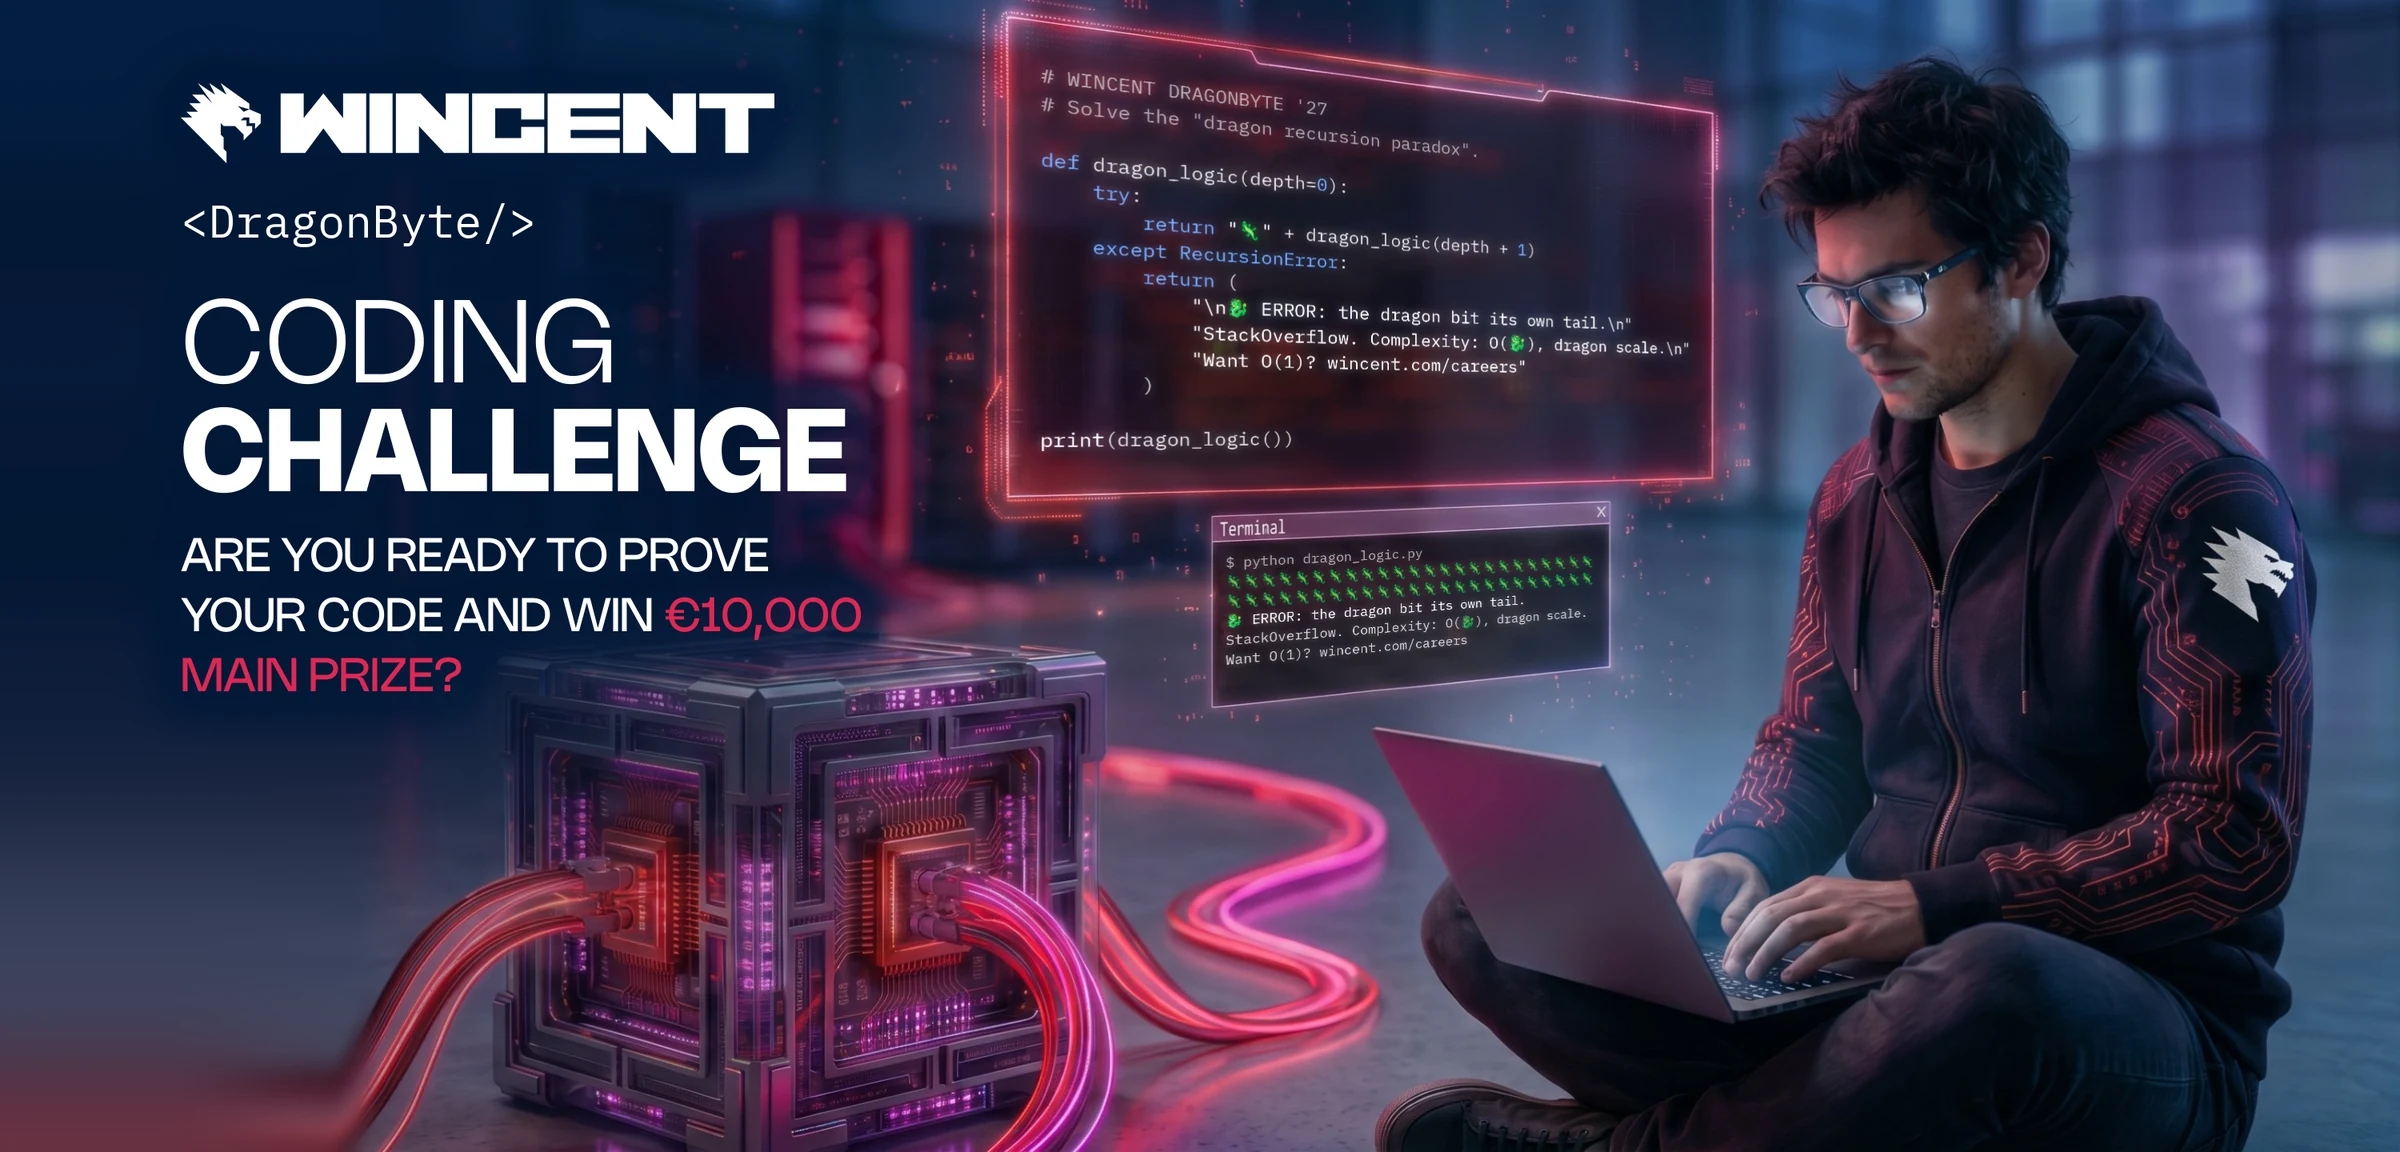
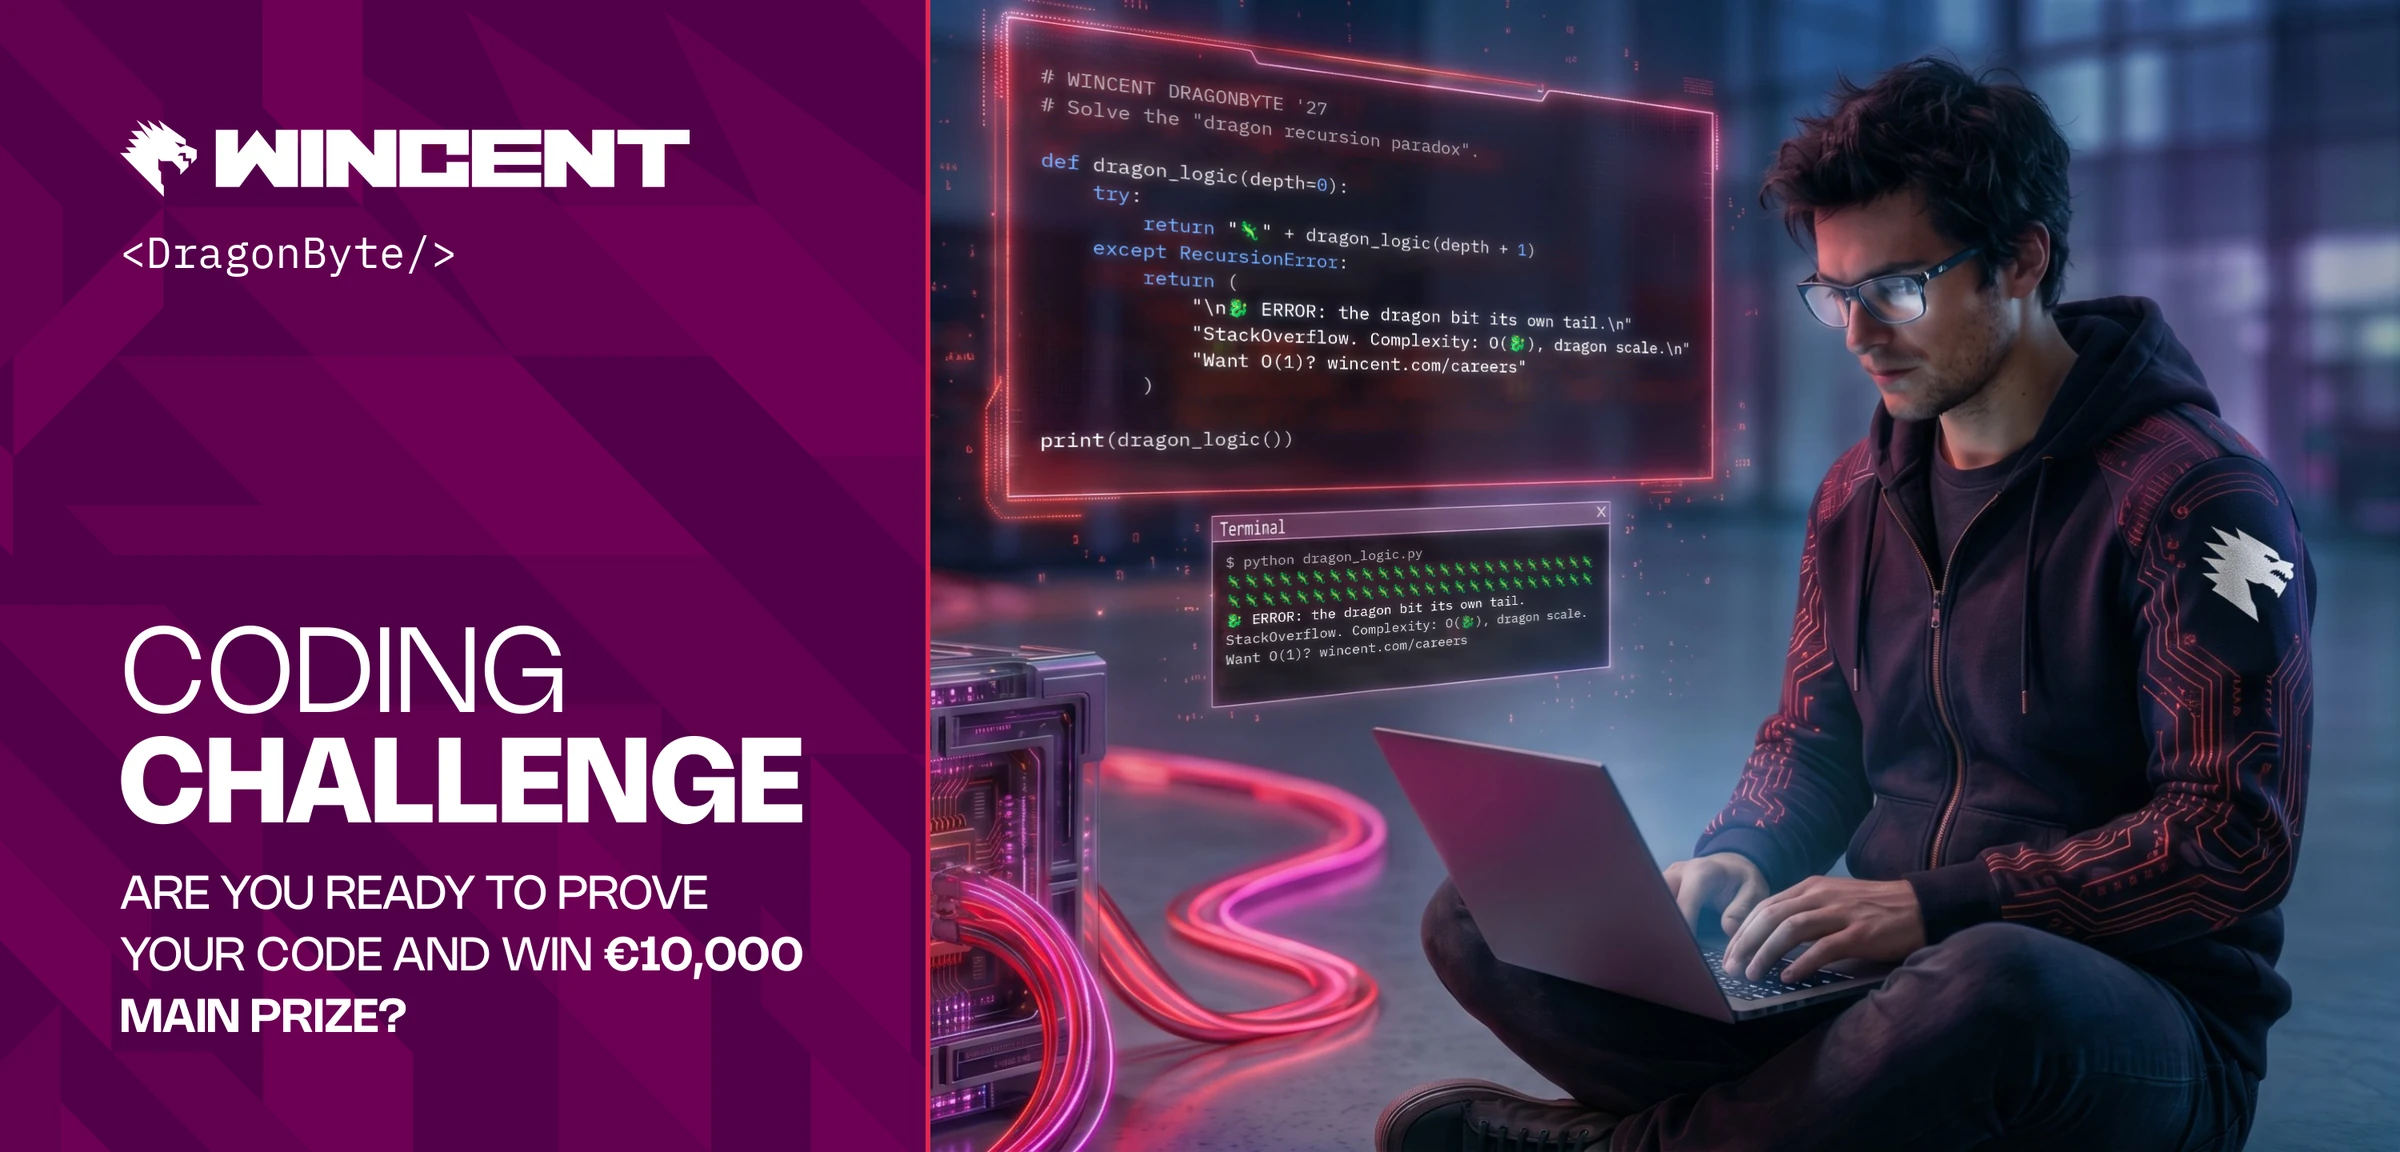
wincentdragonbyte: úloha 1 – bannery s panelom Talent (oficiálny vzor), bez stmavenia scény (EN + SK)
Claude-Session: https://claude.ai/code/session_01H8JWfyXzGm1E99R4ciV8hV

diff --git a/wincentdragonbyte/index.html b/wincentdragonbyte/index.html
@@ -400,11 +400,11 @@ footer{border-top:1px solid var(--line);padding:28px 0 44px;font-size:14px;line-
 </div>
 <h3 class="mono sub">Banner proposals · two options</h3>
 <div class="opts">
-<figure class="opt opt-lead"><a class="zoom" href="assets/banner-db-dragon.webp?v=3" aria-label="Open the image full size"><img width="2400" height="1152" loading="lazy" src="assets/banner-db-dragon.webp?v=3" alt="Banner option 1: on the left the Wincent logo in white, &lt;DragonByte/&gt; smaller below it, Coding Challenge and the line Are you ready to prove your code and win €10,000 main prize?; Byte, the dragon of dark carbon plates with red light in the seams and magenta wings, breathing a stream of code across a server room"></a><figcaption><span class="mono">Option 01</span><strong>Dragon</strong>Byte breathing a stream of code across the server room, in the navy, magenta and red of the Talent stream.</figcaption></figure>
-<figure class="opt opt-lead"><a class="zoom" href="assets/banner-db-contestant.webp?v=3" aria-label="Open the image full size"><img width="2400" height="1152" loading="lazy" src="assets/banner-db-contestant.webp?v=3" alt="Banner option 2: on the left the Wincent logo in white, &lt;DragonByte/&gt; smaller below it, Coding Challenge and the line Are you ready to prove your code and win €10,000 main prize?; a contestant at a laptop, a floating code window with the dragon_logic.py code and a terminal with its output, a glass cube with red cables"></a><figcaption><span class="mono">Option 02</span><strong>Contestant</strong>A contestant at a laptop with a code window and a terminal; both show the sandbox code exactly.</figcaption></figure>
+<figure class="opt opt-lead"><a class="zoom" href="assets/banner-db-dragon.webp?v=4" aria-label="Open the image full size"><img width="2400" height="1152" loading="lazy" src="assets/banner-db-dragon.webp?v=4" alt="Banner option 1: on the left a Dark Purple panel with the Talent pattern, on it the Wincent logo in white, &lt;DragonByte/&gt; smaller below it, Coding Challenge and the line Are you ready to prove your code and win €10,000 main prize?; Byte, the dragon of dark carbon plates with red light in the seams and magenta wings, breathing a stream of code across a server room"></a><figcaption><span class="mono">Option 01</span><strong>Dragon</strong>Byte breathing a stream of code across the server room, in the navy, magenta and red of the Talent stream.</figcaption></figure>
+<figure class="opt opt-lead"><a class="zoom" href="assets/banner-db-contestant.webp?v=4" aria-label="Open the image full size"><img width="2400" height="1152" loading="lazy" src="assets/banner-db-contestant.webp?v=4" alt="Banner option 2: on the left a Dark Purple panel with the Talent pattern, on it the Wincent logo in white, &lt;DragonByte/&gt; smaller below it, Coding Challenge and the line Are you ready to prove your code and win €10,000 main prize?; a contestant at a laptop, a floating code window with the dragon_logic.py code and a terminal with its output, a glass cube with red cables"></a><figcaption><span class="mono">Option 02</span><strong>Contestant</strong>A contestant at a laptop with a code window and a terminal; both show the sandbox code exactly.</figcaption></figure>
 <figure class="opt opt-lead"><video class="motion" src="assets/dragon-motion.mp4" poster="assets/dragon-motion.webp" width="1280" height="720" muted loop playsinline controls preload="none" aria-label="Ten-second video: in a server room the gold dragon breathes a stream of code while a code window runs the recursion; the terminal ends with the error The dragon bit its own tail and the line Want O(1)? wincent.com/careers"><a href="assets/dragon-motion.mp4">Download the video</a></video><figcaption><span class="mono">Motion · 10 s</span><strong>The dragon in motion</strong>Ten seconds with the gold dragon: the code window opens, the dragon breathes the program out as a stream of digits, its tail swings round and the terminal ends on the error and the careers line.</figcaption></figure>
 </div>
-<p class="note">Two banners for one campaign, carrying the full content of the current DragonByte header in the type system of the T-shirt: the Wincent logo in white, the manual’s negative version, &lt;DragonByte/&gt; below it in IBM Plex Mono as embroidered on the chest, set at 60 % of the logo’s width so the logo leads, half a logo height apart as the manual’s safe zone requires, then CODING in Nohemi Light and CHALLENGE in Nohemi Bold like the headline on the back, and the prize line in Nohemi Regular with €10,000 main prize in Vivid Red. Each is 3000 × 1440 px, the format of the current DragonByte header. The scenes are AI-generated images; the type, the logo and the code are set over them, and the code in the window and the terminal is the sandbox code, set in IBM Plex Mono in the sandbox’s colours. The motion study is an AI-generated video; it starts muted and the sound can be turned on in its controls.</p>
+<p class="note">Two banners for one campaign, carrying the full content of the current DragonByte header. The type stands on a panel in Dark Purple with the official Talent dynamic pattern from the brand kit, toned down so that it supports and does not dominate; the scene next to it is left untouched, with no shading over it, and a Vivid Red rule separates the two. On the panel: the Wincent logo in white, the manual’s negative version, &lt;DragonByte/&gt; below it in IBM Plex Mono as embroidered on the T-shirt, at 60 % of the logo’s width and half a logo height apart as the safe zone requires; CODING in Nohemi Light and CHALLENGE in Nohemi Bold like the headline on the T-shirt; the prize line in Nohemi Regular with €10,000 main prize in SemiBold. Headline and prize line fill the same column, and all margins are 150 px. Each banner is 3000 × 1440 px, the format of the current DragonByte header. The scenes are AI-generated images; the code in the window and the terminal is the sandbox code, set in IBM Plex Mono in the sandbox’s colours. The motion study is an AI-generated video; it starts muted and the sound can be turned on in its controls.</p>
 </div></section>
 
 <section id="task-2" class="dark"><div class="wrap sec">

diff --git a/wincentdragonbyte/sk/index.html b/wincentdragonbyte/sk/index.html
@@ -400,11 +400,11 @@ footer{border-top:1px solid var(--line);padding:28px 0 44px;font-size:14px;line-
 </div>
 <h3 class="mono sub">Návrhy bannera · dva varianty</h3>
 <div class="opts">
-<figure class="opt opt-lead"><a class="zoom" href="../assets/banner-db-dragon.webp?v=3" aria-label="Otvoriť obrázok na celú veľkosť"><img width="2400" height="1152" loading="lazy" src="../assets/banner-db-dragon.webp?v=3" alt="Variant bannera 1: vľavo biele logo Wincent, pod ním menšie &lt;DragonByte/&gt;, Coding Challenge a riadok Are you ready to prove your code and win €10,000 main prize?; Byte, drak z tmavých karbónových plátov s červeným svetlom v škárach a magentovými krídlami, chrlí prúd kódu cez serverovňu"></a><figcaption><span class="mono">Variant 01</span><strong>Drak</strong>Byte chrlí prúd kódu cez serverovňu, v navy, magente a červenej streamu Talent.</figcaption></figure>
-<figure class="opt opt-lead"><a class="zoom" href="../assets/banner-db-contestant.webp?v=3" aria-label="Otvoriť obrázok na celú veľkosť"><img width="2400" height="1152" loading="lazy" src="../assets/banner-db-contestant.webp?v=3" alt="Variant bannera 2: vľavo biele logo Wincent, pod ním menšie &lt;DragonByte/&gt;, Coding Challenge a riadok Are you ready to prove your code and win €10,000 main prize?; súťažiaci pri notebooku, vznášajúce sa okno s kódom dragon_logic.py a terminál s jeho výstupom, sklenená kocka s červenými káblami"></a><figcaption><span class="mono">Variant 02</span><strong>Súťažiaci</strong>Súťažiaci pri notebooku s oknom kódu a terminálom; oba ukazujú presne kód zo sandboxu.</figcaption></figure>
+<figure class="opt opt-lead"><a class="zoom" href="../assets/banner-db-dragon.webp?v=4" aria-label="Otvoriť obrázok na celú veľkosť"><img width="2400" height="1152" loading="lazy" src="../assets/banner-db-dragon.webp?v=4" alt="Variant bannera 1: vľavo panel v Dark Purple so vzorom Talent, na ňom biele logo Wincent, pod ním menšie &lt;DragonByte/&gt;, Coding Challenge a riadok Are you ready to prove your code and win €10,000 main prize?; Byte, drak z tmavých karbónových plátov s červeným svetlom v škárach a magentovými krídlami, chrlí prúd kódu cez serverovňu"></a><figcaption><span class="mono">Variant 01</span><strong>Drak</strong>Byte chrlí prúd kódu cez serverovňu, v navy, magente a červenej streamu Talent.</figcaption></figure>
+<figure class="opt opt-lead"><a class="zoom" href="../assets/banner-db-contestant.webp?v=4" aria-label="Otvoriť obrázok na celú veľkosť"><img width="2400" height="1152" loading="lazy" src="../assets/banner-db-contestant.webp?v=4" alt="Variant bannera 2: vľavo panel v Dark Purple so vzorom Talent, na ňom biele logo Wincent, pod ním menšie &lt;DragonByte/&gt;, Coding Challenge a riadok Are you ready to prove your code and win €10,000 main prize?; súťažiaci pri notebooku, vznášajúce sa okno s kódom dragon_logic.py a terminál s jeho výstupom, sklenená kocka s červenými káblami"></a><figcaption><span class="mono">Variant 02</span><strong>Súťažiaci</strong>Súťažiaci pri notebooku s oknom kódu a terminálom; oba ukazujú presne kód zo sandboxu.</figcaption></figure>
 <figure class="opt opt-lead"><video class="motion" src="../assets/dragon-motion.mp4" poster="../assets/dragon-motion.webp" width="1280" height="720" muted loop playsinline controls preload="none" aria-label="Desaťsekundové video: zlatý drak v serverovni chrlí prúd kódu, kým okno s kódom spúšťa rekurziu; terminál skončí chybou The dragon bit its own tail a riadkom Want O(1)? wincent.com/careers"><a href="../assets/dragon-motion.mp4">Stiahnuť video</a></video><figcaption><span class="mono">Pohyb · 10 s</span><strong>Drak v pohybe</strong>Desať sekúnd so zlatým drakom: otvorí sa okno s kódom, drak vydýchne program ako prúd číslic, chvost sa otočí a terminál skončí chybou a odkazom na kariéru.</figcaption></figure>
 </div>
-<p class="note">Dva bannery jednej kampane s celým obsahom súčasného headera DragonByte v typografickom systéme trička: logo Wincent v bielej, negatívnej verzii z manuálu, pod ním &lt;DragonByte/&gt; v IBM Plex Mono ako výšivka na hrudi, široké 60 % šírky loga, aby logo viedlo, vo vzdialenosti polovice výšky loga podľa ochrannej zóny z manuálu, potom CODING v Nohemi Light a CHALLENGE v Nohemi Bold ako nadpis na chrbte a riadok s výhrou v Nohemi Regular, v ktorom je €10,000 main prize vo Vivid Red. Každý má 3000 × 1440 px, formát súčasného headera DragonByte. Scény sú obrázky generované AI; písmo, logo a kód sú vysádzané cez ne a kód v okne aj v termináli je kód zo sandboxu, vysádzaný v IBM Plex Mono vo farbách sandboxu. Pohybová štúdia je video generované AI; spúšťa sa bez zvuku a zvuk sa dá zapnúť v jeho ovládaní.</p>
+<p class="note">Dva bannery jednej kampane s celým obsahom súčasného headera DragonByte. Text stojí na paneli v Dark Purple s oficiálnym dynamickým vzorom Talent z brand kitu, stlmeným tak, aby podporoval a nedominoval; scéna vedľa neho ostáva bez zásahu, bez akéhokoľvek stmavenia, a oddeľuje ich linka vo Vivid Red. Na paneli: biele logo Wincent, negatívna verzia z manuálu, pod ním &lt;DragonByte/&gt; v IBM Plex Mono ako výšivka na tričku, široké 60 % šírky loga a vzdialené polovicu výšky loga podľa ochrannej zóny; CODING v Nohemi Light a CHALLENGE v Nohemi Bold ako nadpis na tričku; riadok s výhrou v Nohemi Regular, v ktorom je €10,000 main prize v SemiBold. Nadpis aj riadok s výhrou vypĺňajú ten istý stĺpec a všetky okraje majú 150 px. Každý banner má 3000 × 1440 px, formát súčasného headera DragonByte. Scény sú obrázky generované AI; kód v okne aj v termináli je kód zo sandboxu, vysádzaný v IBM Plex Mono vo farbách sandboxu. Pohybová štúdia je video generované AI; spúšťa sa bez zvuku a zvuk sa dá zapnúť v jeho ovládaní.</p>
 </div></section>
 
 <section id="task-2" class="dark"><div class="wrap sec">
